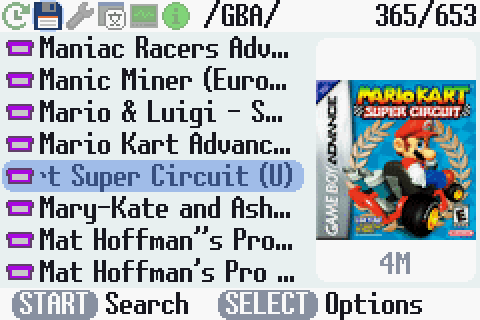
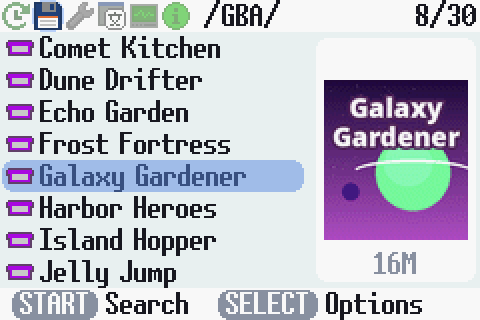
README: screenshots with made-up demo games instead of real box art
The screenshots showed real games and their box art. They now show 30
made-up games with original covers, from tools/debug/emu/demo-card.py
(dummy ROMs with a SuperFW header, game codes starting with 'Z', covers
drawn by the script), so the README carries no publisher artwork. The
release file name now includes the version (superfw-next-v0.1-sd.fw).

diff --git a/tools/debug/emu/demo-card.py b/tools/debug/emu/demo-card.py
@@ -1,0 +1,196 @@
+#!/usr/bin/env python3
+# Builds a demo SD card tree for screenshots (README, docs): 30 made-up games
+# with original covers drawn here, so no real game names or box art show up.
+#
+#   demo-card.py OUTDIR [superfw.gba]
+#
+# OUTDIR gets GBA/*.gba (dummy ROMs: a valid header taken from the SuperFW
+# image, a made-up title and game code, a save type marker, zeros), the box art
+# in .superfw/art/XX/ and covers/*.png. To use it in the emulator, put it on a
+# FAT32 image next to an empty GB/ GBC/ NES/ SAVEGAME/, ie.:
+#
+#   truncate -s 512M sdcard.img && mkfs.fat -F 32 -n SUPERFW sdcard.img
+#   udisksctl loop-setup -f sdcard.img, copy GBA/ and .superfw/, unmount.
+#
+# Game codes start with 'Z' (unused by retail games), so the patch database
+# never matches them. Needs Pillow.
+import io, math, os, random, sys
+from PIL import Image, ImageDraw, ImageFont
+HERE = os.path.dirname(os.path.abspath(__file__))
+sys.path.insert(0, os.path.join(HERE, "..", ".."))
+import superfw_romlib as lib
+
+OUT = sys.argv[1]
+FW = sys.argv[2] if len(sys.argv) > 2 else os.path.join(HERE, "..", "..", "..", "superfw.gba")
+FB = "/usr/share/fonts/noto/NotoSans-Black.ttf"
+if not os.path.exists(FB):
+    FB = "/usr/share/fonts/noto/NotoSans-Bold.ttf"
+
+GAMES = [  # title, motif, colors (top, bottom, accent), save, size MiB
+  ("Astro Courier", "planet", ((20, 24, 70), (120, 60, 160), (255, 200, 80)), "FLASH1M_V103", 4),
+  ("Bubble Bandits", "bubbles", ((40, 170, 220), (20, 60, 140), (255, 255, 255)), "SRAM_V113", 4),
+  ("Castle of Clocks", "castle", ((250, 170, 90), (120, 40, 90), (60, 30, 60)), "EEPROM_V124", 8),
+  ("Comet Kitchen", "planet", ((10, 10, 40), (40, 90, 150), (255, 120, 120)), "SRAM_V113", 4),
+  ("Dune Drifter", "dunes", ((255, 200, 120), (230, 110, 60), (150, 60, 40)), "SRAM_V113", 8),
+  ("Echo Garden", "forest", ((150, 230, 200), (40, 120, 90), (20, 70, 50)), "FLASH_V126", 4),
+  ("Frost Fortress", "mountains", ((180, 220, 255), (90, 140, 210), (240, 250, 255)), "SRAM_V113", 8),
+  ("Galaxy Gardener", "planet", ((30, 10, 60), (180, 80, 200), (120, 255, 160)), "FLASH1M_V103", 16),
+  ("Harbor Heroes", "sea", ((255, 180, 120), (60, 100, 180), (30, 40, 90)), "SRAM_V113", 4),
+  ("Island Hopper", "sea", ((120, 210, 255), (20, 140, 200), (250, 220, 120)), "SRAM_V113", 4),
+  ("Jelly Jump", "bubbles", ((255, 150, 200), (160, 60, 160), (255, 240, 120)), "EEPROM_V124", 2),
+  ("Knight Lantern", "castle", ((30, 30, 80), (90, 60, 140), (255, 210, 90)), "SRAM_V113", 8),
+  ("Lunar Lanes", "grid", ((20, 10, 50), (200, 60, 160), (255, 220, 120)), "SRAM_V113", 8),
+  ("Moss and Moonlight", "forest", ((20, 40, 80), (40, 110, 110), (240, 240, 200)), "FLASH1M_V103", 16),
+  ("Neon Nomads", "grid", ((10, 10, 40), (60, 20, 120), (0, 255, 220)), "SRAM_V113", 8),
+  ("Ocean Orchestra", "sea", ((90, 200, 230), (20, 60, 140), (255, 255, 255)), "SRAM_V113", 4),
+  ("Pixel Parade", "city", ((255, 210, 120), (240, 100, 120), (80, 40, 100)), "SRAM_V113", 4),
+  ("Pocket Planets", "planet", ((15, 20, 60), (60, 140, 200), (255, 170, 60)), "FLASH_V126", 8),
+  ("Pocket Potions", "bubbles", ((120, 60, 160), (40, 20, 80), (140, 255, 140)), "SRAM_V113", 4),
+  ("Pocket Puzzlebox", "grid", ((255, 230, 140), (240, 140, 60), (120, 60, 200)), "EEPROM_V124", 2),
+  ("Quiet Quasar", "planet", ((5, 5, 20), (30, 40, 90), (200, 220, 255)), "SRAM_V113", 8),
+  ("Rocket Rodeo", "dunes", ((255, 160, 80), (200, 60, 40), (90, 40, 30)), "FLASH1M_V103", 16),
+  ("Sky Lanterns", "city", ((40, 30, 90), (230, 120, 90), (255, 220, 120)), "SRAM_V113", 4),
+  ("Tin Can Tanks", "dunes", ((180, 210, 140), (110, 140, 70), (60, 70, 40)), "SRAM_V113", 4),
+  ("Umbrella Unicorns", "mountains", ((255, 200, 230), (170, 140, 255), (255, 255, 255)), "SRAM_V113", 8),
+  ("Velvet Valley", "mountains", ((255, 190, 150), (140, 70, 120), (70, 40, 90)), "FLASH_V126", 8),
+  ("Wind Whistlers", "sea", ((200, 240, 255), (120, 180, 230), (255, 255, 255)), "SRAM_V113", 4),
+  ("Xylo Express", "city", ((120, 220, 255), (60, 90, 200), (255, 230, 90)), "SRAM_V113", 8),
+  ("Yarn Yeti", "mountains", ((210, 240, 255), (130, 170, 230), (255, 140, 160)), "EEPROM_V124", 4),
+  ("Zephyr Zone", "grid", ((30, 60, 120), (20, 200, 200), (255, 255, 255)), "SRAM_V113", 8),
+]
+
+def lerp(a, b, t):
+    return tuple(int(a[i] + (b[i] - a[i]) * t) for i in range(3))
+
+def shade(c, f):
+    return tuple(max(0, min(255, int(v * f))) for v in c)
+
+def cover(title, motif, cols, seed):
+    W, H = 240, 264
+    rnd = random.Random(seed)
+    top, bot, acc = cols
+    im = Image.new("RGB", (W, H))
+    d = ImageDraw.Draw(im)
+    for y in range(H):
+        d.line([(0, y), (W, y)], fill=lerp(top, bot, y / H))
+    dark = shade(bot, 0.45)
+    if motif in ("planet", "grid", "city") or top[0] + top[1] + top[2] < 200:
+        for _ in range(40):
+            x, y = rnd.randrange(W), rnd.randrange(int(H * 0.7))
+            d.point((x, y), fill=(255, 255, 230))
+    if motif == "planet":
+        cx, cy, r = W * 0.62, H * 0.58, 62
+        d.ellipse((cx - r, cy - r, cx + r, cy + r), fill=acc)
+        d.ellipse((cx - r + 14, cy - r + 10, cx + r - 30, cy + r - 40), fill=shade(acc, 1.15))
+        d.arc((cx - r - 40, cy - 22, cx + r + 40, cy + 22), 200, 340, fill=(255, 255, 255), width=5)
+        d.ellipse((30, 170, 58, 198), fill=shade(top, 2.2))
+    elif motif == "mountains":
+        d.ellipse((150, 90, 200, 140), fill=acc)
+        for i, (x, h, f) in enumerate(((-40, 120, 0.7), (60, 150, 0.85), (140, 110, 0.6))):
+            c = shade(bot, f)
+            d.polygon([(x, H), (x + 90, H - h - 40), (x + 180, H)], fill=c)
+            d.polygon([(x + 70, H - h - 17), (x + 90, H - h - 40), (x + 110, H - h - 17)], fill=(250, 250, 255))
+    elif motif == "sea":
+        d.ellipse((90, 120, 170, 200), fill=acc)
+        for i in range(6):
+            y = 175 + i * 16
+            pts = [(x, y + 6 * math.sin(x / 18 + i)) for x in range(0, W + 8, 8)]
+            d.polygon(pts + [(W, H), (0, H)], fill=shade(bot, 0.95 - i * 0.08))
+    elif motif == "bubbles":
+        for _ in range(16):
+            r = rnd.randrange(8, 34)
+            x, y = rnd.randrange(W), rnd.randrange(70, H)
+            d.ellipse((x - r, y - r, x + r, y + r), outline=acc, width=3)
+            d.ellipse((x - r // 2, y - r // 2, x - r // 4, y - r // 4), fill=acc)
+    elif motif == "castle":
+        base = H - 70
+        d.rectangle((40, base, 200, H), fill=acc)
+        for x in (40, 100, 160):
+            d.rectangle((x, base - 60, x + 40, H), fill=acc)
+            d.polygon([(x - 6, base - 60), (x + 20, base - 100), (x + 46, base - 60)], fill=shade(acc, 1.6))
+            d.rectangle((x + 15, base - 40, x + 25, base - 25), fill=(255, 220, 120))
+        d.ellipse((96, base + 20, 144, base + 68), fill=(255, 240, 200))
+        d.line((120, base + 44, 120, base + 30), fill=acc, width=3)
+        d.line((120, base + 44, 132, base + 44), fill=acc, width=3)
+    elif motif == "dunes":
+        d.ellipse((140, 80, 200, 140), fill=(255, 245, 210))
+        for i, f in enumerate((0.9, 0.75, 0.6)):
+            y0 = 160 + i * 30
+            pts = [(x, y0 + 18 * math.sin(x / 40 + i * 2)) for x in range(0, W + 8, 8)]
+            d.polygon(pts + [(W, H), (0, H)], fill=shade(acc if i == 2 else bot, f + 0.2))
+    elif motif == "forest":
+        d.ellipse((150, 60, 196, 106), fill=acc)
+        for row, f in ((150, 0.7), (180, 0.55), (210, 0.4)):
+            for x in range(-10, W + 20, 34):
+                xx = x + rnd.randrange(-8, 8)
+                d.polygon([(xx, H), (xx + 20, row - rnd.randrange(0, 30)), (xx + 40, H)], fill=shade(bot, f))
+    elif motif == "grid":
+        hz = 170
+        d.ellipse((70, hz - 70, 170, hz + 30), fill=acc)
+        for i in range(5):
+            d.rectangle((70, hz - 40 + i * 12, 170, hz - 36 + i * 12), fill=lerp(top, bot, (hz - 40 + i * 12) / H))
+        d.rectangle((0, hz, W, H), fill=shade(top, 0.8))
+        for i in range(-12, 13):
+            d.line((W / 2 + i * 12, hz, W / 2 + i * 60, H), fill=acc, width=2)
+        y, step = hz, 6
+        while y < H:
+            d.line((0, y, W, y), fill=acc, width=2)
+            step *= 1.35
+            y += step
+    elif motif == "city":
+        d.ellipse((150, 50, 200, 100), fill=(255, 245, 220))
+        x = 0
+        while x < W:
+            w, h = rnd.randrange(22, 44), rnd.randrange(60, 150)
+            d.rectangle((x, H - h, x + w, H), fill=acc)
+            for wy in range(H - h + 8, H - 8, 14):
+                for wx in range(x + 5, x + w - 6, 10):
+                    if rnd.random() < 0.6:
+                        d.rectangle((wx, wy, wx + 4, wy + 6), fill=(255, 230, 140))
+            x += w + 2
+    # Title: up to two lines, white with a dark outline, at the top.
+    words = title.split()
+    lines = [title] if len(title) <= 11 else [" ".join(words[:(len(words) + 1) // 2]), " ".join(words[(len(words) + 1) // 2:])]
+    size = 46
+    font = ImageFont.truetype(FB, size)
+    while max(d.textlength(l, font=font) for l in lines) > W - 20 and size > 20:
+        size -= 2
+        font = ImageFont.truetype(FB, size)
+    y = 14
+    for l in lines:
+        tw = d.textlength(l, font=font)
+        d.text(((W - tw) / 2, y), l, font=font, fill=(255, 255, 255), stroke_width=5, stroke_fill=dark)
+        y += size + 4
+    return im
+
+def rom_bytes(fwhdr, title, code, save, mib):
+    hdr = bytearray(fwhdr[:0xC0])
+    t = title.upper().replace(" ", "")[:12].encode("ascii").ljust(12, b"\0")
+    hdr[0xA0:0xAC] = t
+    hdr[0xAC:0xB0] = code.encode("ascii")
+    hdr[0xB0:0xB2] = b"00"
+    hdr[0xBC] = 0                      # Version
+    chk = 0x19
+    for i in range(0xA0, 0xBD):
+        chk += hdr[i]
+    hdr[0xBD] = (-chk) & 0xFF
+    body = bytearray(mib * 1024 * 1024 - 0xC0)
+    s = (save + "\0\0\0\0").encode("ascii")
+    body[0x1000:0x1000 + len(s)] = s
+    return bytes(hdr) + bytes(body)
+
+fwhdr = open(FW, "rb").read(0xC0)
+os.makedirs(os.path.join(OUT, "GBA"), exist_ok=True)
+os.makedirs(os.path.join(OUT, "covers"), exist_ok=True)
+for n, (title, motif, cols, save, mib) in enumerate(GAMES):
+    fname = "%s.gba" % title
+    code = "Z%c%cE" % (chr(65 + n // 26), chr(65 + n % 26))
+    open(os.path.join(OUT, "GBA", fname), "wb").write(rom_bytes(fwhdr, title, code, save, mib))
+    im = cover(title, motif, cols, n)
+    im.save(os.path.join(OUT, "covers", title + ".png"))
+    buf = io.BytesIO(); im.save(buf, "PNG")
+    art = lib.encode_art(buf.getvalue())[0]
+    p = os.path.join(OUT, lib.art_relpath(fname))
+    os.makedirs(os.path.dirname(p), exist_ok=True)
+    open(p, "wb").write(art)
+print(len(GAMES), "games")

diff --git a/README.md b/README.md
@@ -24,7 +24,8 @@ SuperFW, it is free software under the GNU GPL version 3 or later.
 
 ## Download
 
-Get `superfw-sd.fw` from the [latest release](https://github.com/vinivius/superfw_next/releases/latest),
+Get the `.fw` file (ie. `superfw-next-v0.1-sd.fw`) from the
+[latest release](https://github.com/vinivius/superfw_next/releases/latest),
 then follow [Installing or updating](#installing-or-updating). Only the
 Supercard SD build is published: it is the one tested on real hardware. The
 Lite and CHIS variants build from the same sources (`make BOARD=lite` /
@@ -32,7 +33,8 @@ Lite and CHIS variants build from the same sources (`make BOARD=lite` /
 
 ## What's new
 
-The full list is in [docs/superfw-next.md](docs/superfw-next.md).
+The full list is in [docs/superfw-next.md](docs/superfw-next.md). The
+screenshots show made-up demo games with original covers.
 
 ### A new look
 
@@ -70,7 +72,7 @@ files.
 
 <p align="center">
   <img src="docs/screenshots/search-open.png" width="45%" alt="Search opens at A">
-  <img src="docs/screenshots/search.png" width="45%" alt="Searching POK">
+  <img src="docs/screenshots/search.png" width="45%" alt="Searching POC">
 </p>
 
 ### Responsive
@@ -159,13 +161,14 @@ Use fresh batteries or a power adapter: an update interrupted by a power
 loss can leave the cart unbootable (see the NDS flasher in
 [Installation](#installation) below to recover it).
 
-1. **Try it first.** Copy `superfw-sd.fw` to the SD card renamed to
-   `superfw-next.gba`, and launch it from the browser like a game. It runs
+1. **Try it first.** Copy the `.fw` file (ie. `superfw-next-v0.1-sd.fw`) to
+   the SD card renamed to `superfw-next.gba`, and launch it from the browser
+   like a game. It runs
    from memory without touching the cart's flash: turning the console off
    brings back your current firmware.
-2. **Flash it.** Copy `superfw-sd.fw` to the SD card (keep only one `.fw`
-   file there). On the About tab press **Down + B + START** ("Update flashing
-   is enabled"), pick `superfw-sd.fw` in the browser, press A, then
+2. **Flash it.** Copy the `.fw` file to the SD card (keep only one `.fw` file
+   there). On the About tab press **Down + B + START** ("Update flashing is
+   enabled"), pick the `.fw` file in the browser, press A, then
    **L + R + Up**. Wait for "Flash update complete!" and restart the console.
 
 The firmware header is unchanged, so SuperFW and SuperFW Next can install each

diff --git a/.claude/skills/superfw-debug/SKILL.md b/.claude/skills/superfw-debug/SKILL.md
@@ -194,6 +194,12 @@ expose the UART as a pty and to keep SD image writes.
 - Don't write off an emulator crash or hang as an emulator limitation
   without checking: the in-game `!` crashed gpsp for the same reason it
   froze the GBA.
+- Screenshots for the README or docs: use a card made with
+  `tools/debug/emu/demo-card.py` (made-up games, original covers), never
+  real ROM names or downloaded box art (publishers' copyright). The emulator
+  writes to the card image (patch answers, settings): keep a pristine copy
+  and restore it before each capture run. Take list shots right after moving
+  the cursor, before long names start scrolling.
 - Don't rebuild or replace the core while an emulator uses it (SIGBUS).
 
 ## Firmware memory budgets

diff --git a/tools/debug/README.md b/tools/debug/README.md
@@ -20,3 +20,5 @@ GBA SO (pin 2) to adapter RXD, GBA SI (pin 3) to adapter TXD, and GND (pin
                       headless frontend (`emu/fe.c`); `emu/run.sh` runs it,
                       `emu/keys.sh` injects keys, `emu/shot.sh` saves the
                       exact frame, `emu/montage.py` makes contact sheets.
+- `emu/demo-card.py`  Made-up games with original covers for screenshots
+                      (README, docs): never show real game names or box art.
